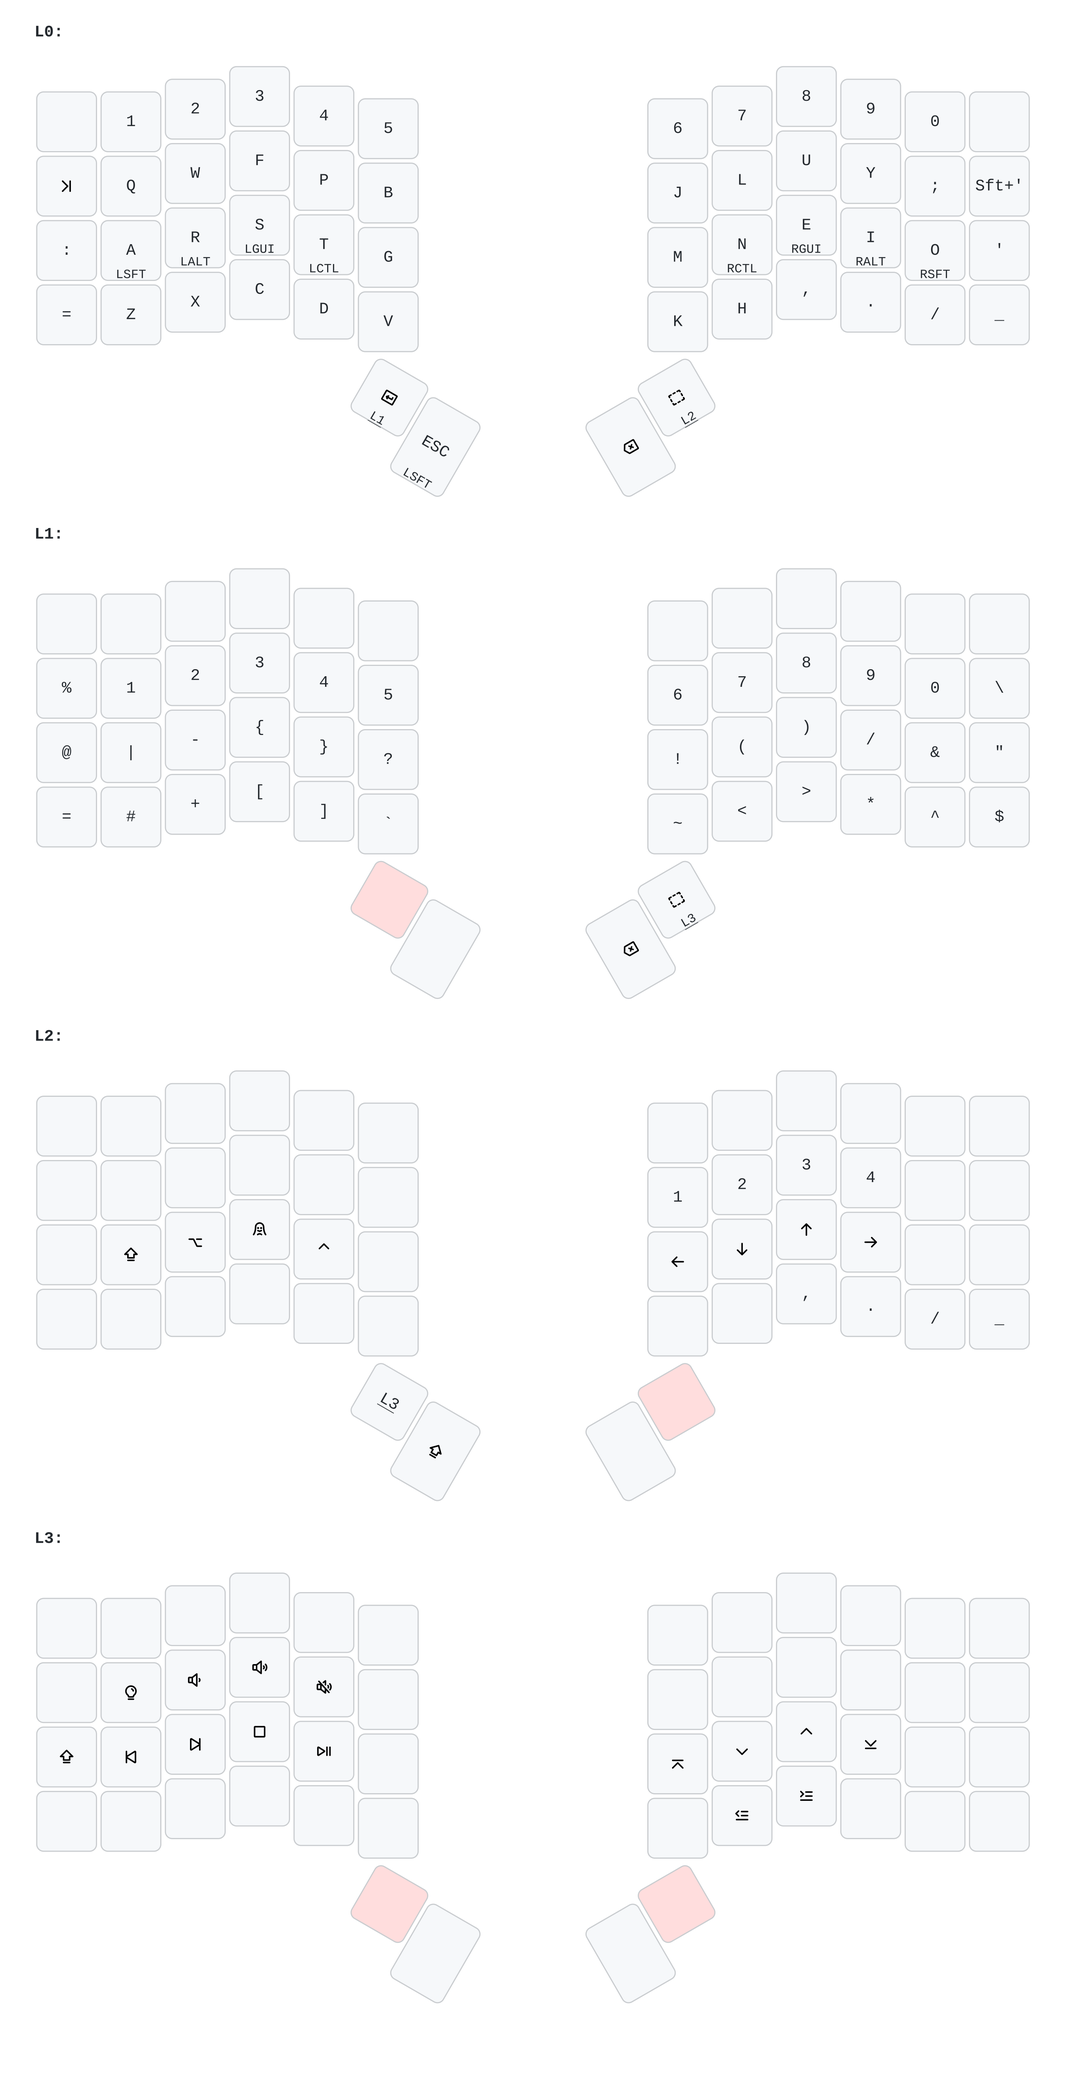
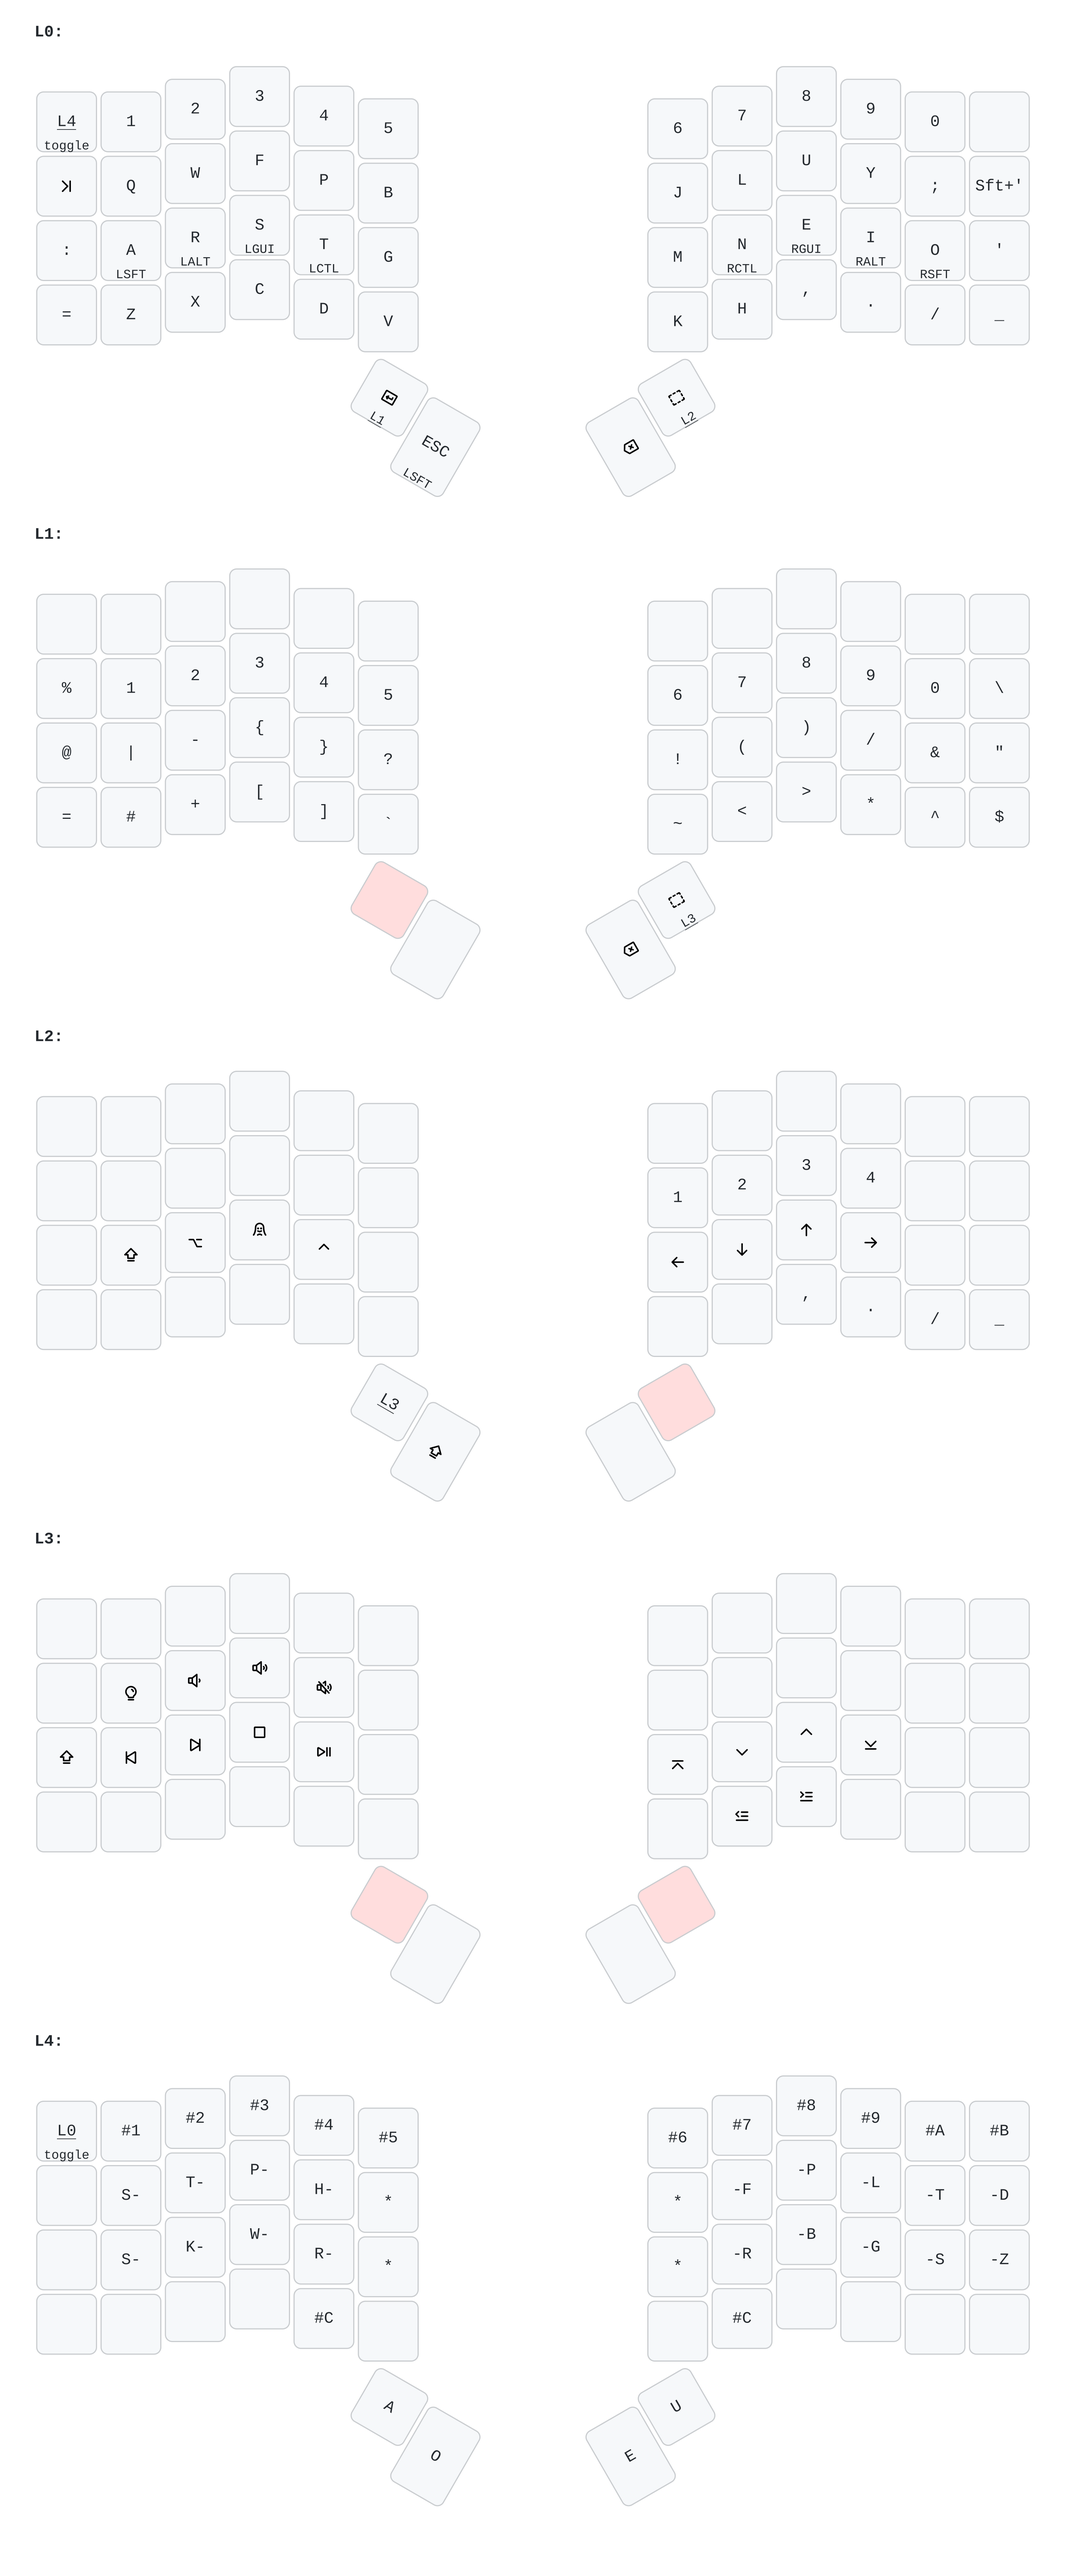
feat: add steno layer

diff --git a/keyboards/zsa/voyager/keymaps/mine/keymap.c b/keyboards/zsa/voyager/keymaps/mine/keymap.c
@@ -6,7 +6,8 @@ enum Layer {
     MAIN,
     SYMBOLS,
     NAVIGATION,
-    EXTRA
+    EXTRA,
+    STENO
 };
 
 // clang-format off
@@ -41,6 +42,14 @@ const uint16_t PROGMEM keymaps[][MATRIX_ROWS][MATRIX_COLS] = {
       KC_LSFT , KC_MPRV , KC_MNXT , KC_MSTP , KC_MPLY , __ ,     KC_HOME , KC_PGDN   , KC_PGUP      , KC_END , __ , __,
       __      , __      , __      , __      , __      , __ ,     __      , C(KC_TAB) , C(S(KC_TAB)) , __     , __ , __,
                                               __      , __ ,     __      , __
+),
+
+[STENO] = LAYOUT(
+      TO(0) , STN_N1 , STN_N2 , STN_N3 , STN_N4 , STN_N5  ,     STN_N6  , STN_N7 , STN_N8 , STN_N9 , STN_NA , STN_NB,
+      __    , STN_S1 , STN_TL , STN_PL , STN_HL , STN_ST1 ,     STN_ST3 , STN_FR , STN_PR , STN_LR , STN_TR , STN_DR,
+      __    , STN_S2 , STN_KL , STN_WL , STN_RL , STN_ST2 ,     STN_ST4 , STN_RR , STN_BR , STN_GR , STN_SR , STN_ZR,
+      __    , __     , __     , __     , STN_NC , __      ,     __      , STN_NC , __     , __     , __     , __    ,
+                                         STN_A  , STN_O   ,     STN_E   , STN_U
 )
 };
 // clang-format on
